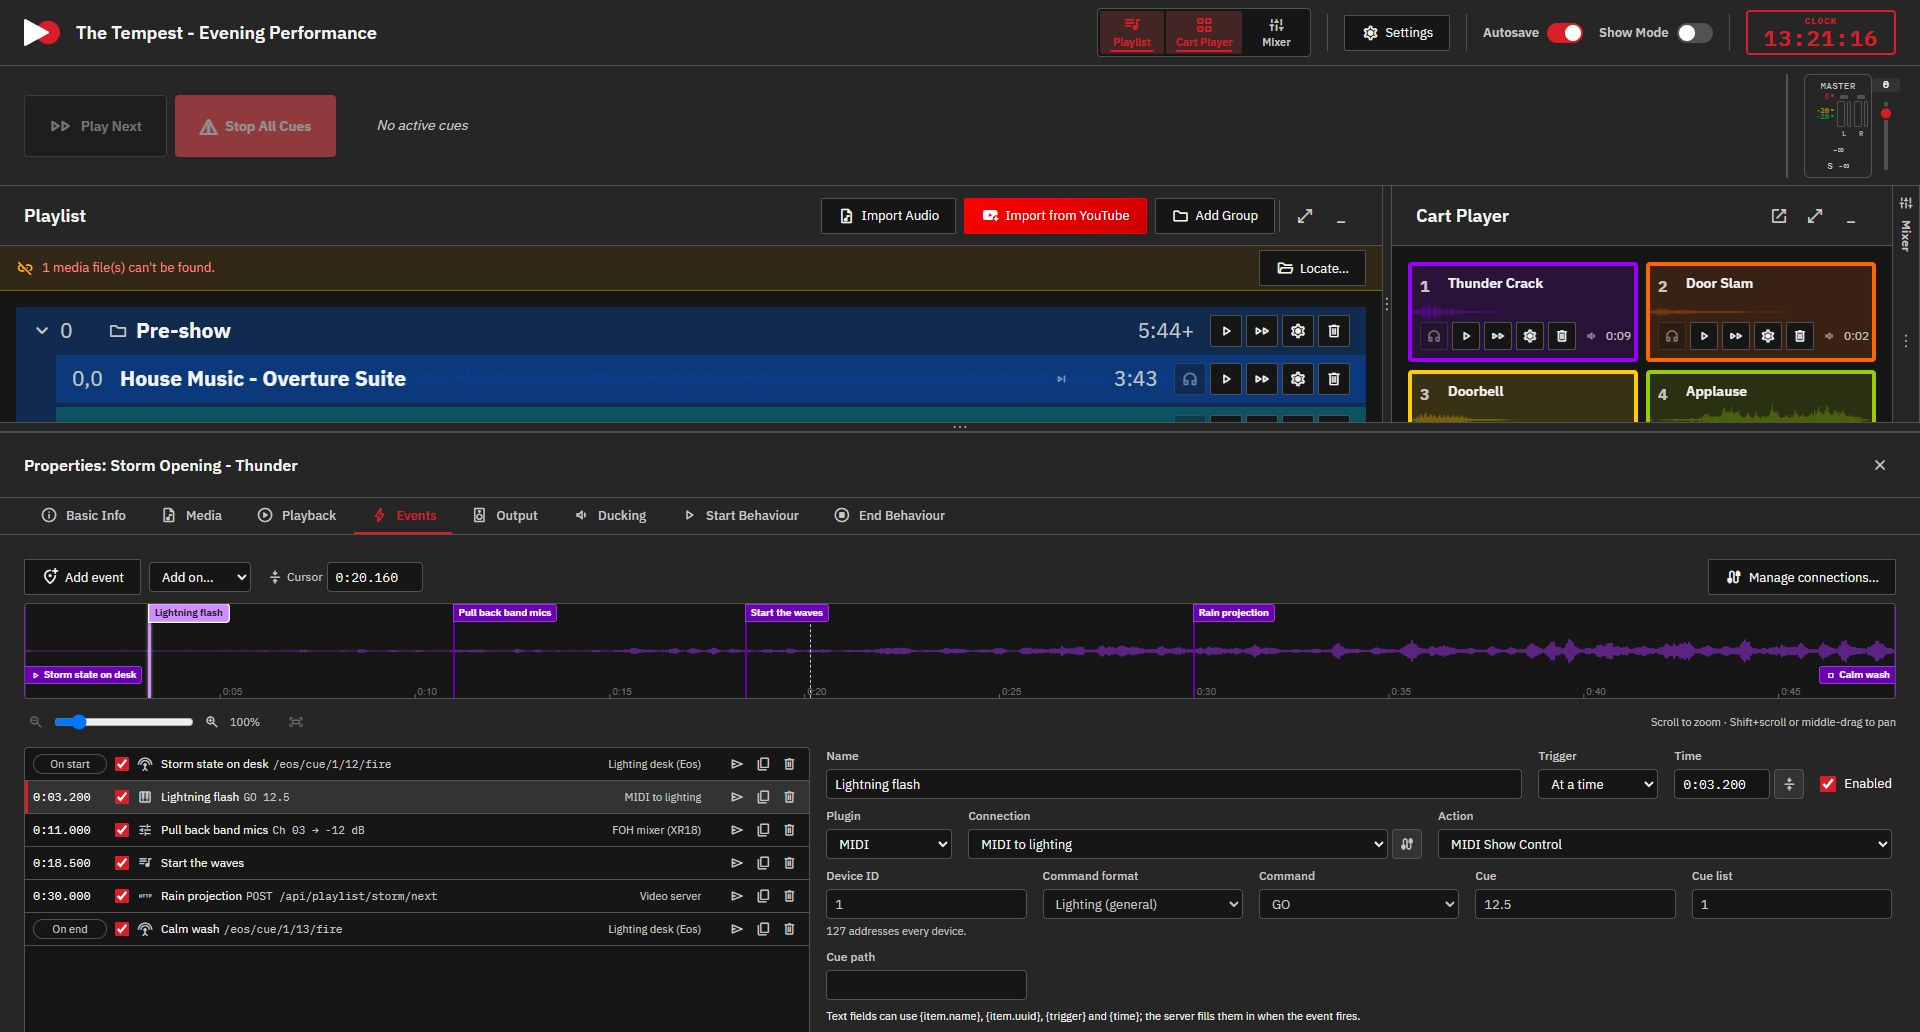
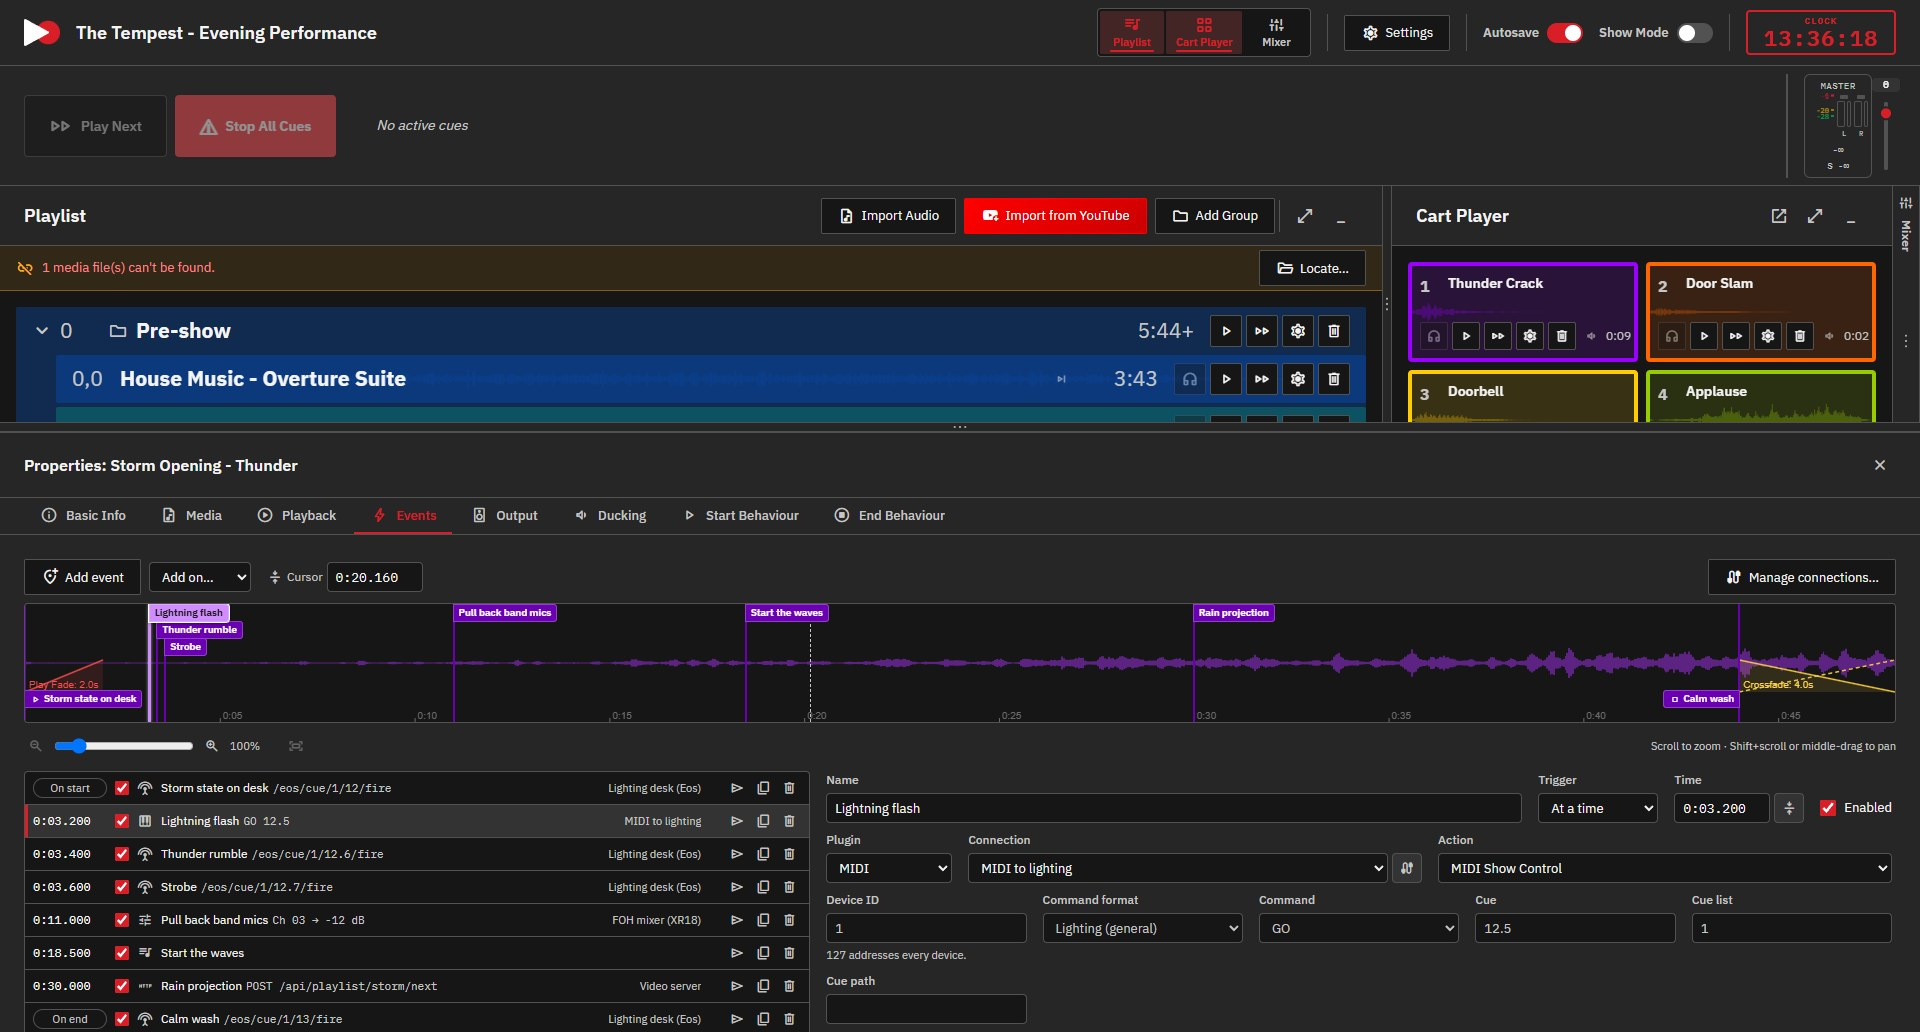
feat(events): lanes for overlapping markers, fades on the timeline
Event flags that would overlap now drop into the next lane (packed by
their measured width at the current zoom, up to three lanes; beyond that
the hovered flag comes to the front), and every marker line sits under
every flag so a neighbour's line never cuts through a label.

The timeline draws the cue's fades in the Playback tab's colours: the
play fade and stop fade as red ramps, a crossfade (and a loop crossfade)
as a yellow X with the next cue's ramp dashed, and Start Next as a green
line. 'On end' flags sit where the server really fires them: at the start
of the crossfade when there is one, not the out point.

Changed region(s): [[0.0, 0.5891, 1.0, 1.0], [0.875, 0.8372, 0.9062, 0.8992], [0.9375, 0.031, 0.9688, 0.062]]

diff --git a/client/app/components/ItemEventsEditor.vue b/client/app/components/ItemEventsEditor.vue
@@ -118,7 +118,7 @@
             flashing: isFlashing(m.ev.id),
             dragging: drag?.id === m.ev.id,
           }"
-          :style="{ left: pct(m.time) }"
+          :style="{ left: pct(m.time), '--lane': m.lane }"
           :title="markerTitle(m.ev)"
           @pointerdown.stop="onMarkerDown($event, m.ev)"
           @pointermove="onMarkerMove"
@@ -127,7 +127,7 @@
         >
           <span class="ev-marker-line" />
           <span class="ev-marker-flag">
-            {{ drag?.id === m.ev.id ? formatEventTime(m.time) : m.label }}
+            {{ m.label }}
             <span v-if="lastResult[m.ev.id]?.ok === false" class="ev-error-dot" />
           </span>
         </div>
@@ -505,15 +505,27 @@ watch(() => props.item?.uuid, () => {
 
 onMounted(() => { void refreshPlugins(); });
 
-// On start / On end events, drawn at the trim points they fire at; several
-// on one edge stack upwards.
+// ---- fades, as the server plays them ------------------------------------
+// Mirrors play_item: a loop arms no crossfade, and Start Next supersedes it.
+const looping = computed(() => props.item.endBehavior?.action === 'loop');
+const startNextOn = computed(() =>
+  !looping.value && !!props.item.startNextEnabled && (props.item.startNextTime ?? 0) > 0);
+const crossFadeSec = computed(() =>
+  looping.value || startNextOn.value ? 0 : Math.max(0, props.item.crossFade || 0));
+// "On end" fires when the cue hands over: at the start of its crossfade, not
+// at the out point (the sequencer retires it there).
+const endFireTime = computed(() =>
+  crossFadeSec.value > 0 ? Math.max(inPoint.value, outPoint.value - crossFadeSec.value) : outPoint.value);
+
+// On start / On end events, drawn where they fire; several on one edge
+// stack upwards.
 const edgeMarkers = computed(() => {
   const out: { ev: ItemEvent; time: number; end: boolean; stack: number; label: string }[] = [];
   let starts = 0, ends = 0;
   for (const ev of sortedEvents.value) {
     if (ev.trigger !== 'start' && ev.trigger !== 'end') continue;
     const end = ev.trigger === 'end';
-    out.push({ ev, end, time: end ? outPoint.value : inPoint.value,
+    out.push({ ev, end, time: end ? endFireTime.value : inPoint.value,
                stack: end ? ends++ : starts++, label: ev.name || rowTitle(ev) });
   }
   return out;
@@ -552,13 +564,44 @@ const waveformColour = computed(() => {
   return rgbCss(mix(c, grey, 0.5));
 });
 
+// Flags that would overlap drop to the next lane down instead of covering
+// each other: packed left to right by their measured width at this zoom.
+// Past MAX_LANES they share the emptiest lane (hovering one lifts it).
+const timelineWidth = ref(0);
+const MAX_LANES = 3;
+let measureCtx: CanvasRenderingContext2D | null = null;
+function flagWidth(label: string, hasError: boolean): number {
+  if (!measureCtx) {
+    measureCtx = document.createElement('canvas').getContext('2d');
+    if (measureCtx) measureCtx.font = `600 10px ${getComputedStyle(document.body).fontFamily}`;
+  }
+  const text = measureCtx ? measureCtx.measureText(label).width : label.length * 6;
+  // Padding and border, the error dot, and the max-width the CSS applies.
+  return Math.min(120, text + 12 + (hasError ? 9 : 0));
+}
+
 // Time markers, numbered in time order so the flag and the list agree.
 const markers = computed(() => {
   const timed = sortedEvents.value.filter(e => e.trigger === 'time' && typeof e.time === 'number');
-  return timed.map((ev, i) => {
+  const list = timed.map((ev, i) => {
     const time = drag.value?.id === ev.id ? drag.value.time : ev.time!;
-    return { ev, time, label: ev.name || String(i + 1), outside: isOutside(time) };
+    const label = drag.value?.id === ev.id ? formatEventTime(time) : (ev.name || String(i + 1));
+    return { ev, time, label, outside: isOutside(time), lane: 0 };
   });
+  const w = timelineWidth.value;
+  if (w > 0 && visibleDuration.value > 0) {
+    const laneEnds: number[] = [];
+    for (const m of [...list].sort((a, b) => a.time - b.time)) {
+      const x = ((m.time - viewStart.value) / visibleDuration.value) * w + 5;   // flag's left edge
+      const right = x + flagWidth(m.label, lastResult.value[m.ev.id]?.ok === false);
+      let lane = laneEnds.findIndex(end => end <= x - 2);
+      if (lane < 0 && laneEnds.length < MAX_LANES) lane = laneEnds.length;
+      if (lane < 0) lane = laneEnds.indexOf(Math.min(...laneEnds));
+      laneEnds[lane] = Math.max(laneEnds[lane] ?? 0, right);
+      m.lane = lane;
+    }
+  }
+  return list;
 });
 
 const rowTitle = (ev: ItemEvent) => {
@@ -900,6 +943,7 @@ function draw() {
   const w = box.clientWidth;
   const h = box.clientHeight;
   if (w <= 0 || h <= 0) return;
+  timelineWidth.value = w;
   const dpr = window.devicePixelRatio || 1;
   canvas.width = Math.round(w * dpr);
   canvas.height = Math.round(h * dpr);
@@ -951,6 +995,67 @@ function draw() {
     if (xo < w) ctx.fillRect(xo, 0, w - xo, h);
   }
 
+  // Fades, in the Playback tab's colours: the play fade and stop fade red,
+  // a crossfade yellow (the next cue's ramp dashed, crossing this one's),
+  // Start Next a green line. Ramps run between the flag rows.
+  if (dur > 0 && vis > 0) {
+    const top = 56, bottom = h - 30;   // between the top flags and the edge flags
+    const RED = '255, 77, 77', YELLOW = '255, 210, 63', GREEN = '74, 222, 128';
+    const ramp = (t0: number, t1: number, up: boolean, rgb: string, label: string, dashedReverse = false) => {
+      const x0 = xOf(t0), x1 = xOf(t1);
+      if (x1 < 0 || x0 > w || x1 - x0 < 1) return;
+      const y0 = up ? bottom : top, y1 = up ? top : bottom;
+      ctx.fillStyle = `rgba(${rgb}, 0.12)`;
+      ctx.beginPath();
+      ctx.moveTo(x0, bottom); ctx.lineTo(x0, y0); ctx.lineTo(x1, y1); ctx.lineTo(x1, bottom);
+      ctx.closePath();
+      ctx.fill();
+      ctx.strokeStyle = `rgba(${rgb}, 0.9)`;
+      ctx.lineWidth = 1.5;
+      ctx.beginPath(); ctx.moveTo(x0, y0); ctx.lineTo(x1, y1); ctx.stroke();
+      if (dashedReverse) {
+        ctx.setLineDash([4, 3]);
+        ctx.beginPath(); ctx.moveTo(x0, y1); ctx.lineTo(x1, y0); ctx.stroke();
+        ctx.setLineDash([]);
+      }
+      ctx.lineWidth = 1;
+      ctx.font = '10px sans-serif';
+      const tw = ctx.measureText(label).width;
+      if (x1 - x0 > tw + 8) {
+        ctx.fillStyle = `rgba(${rgb}, 1)`;
+        ctx.fillText(label, Math.max(x0, 0) + 4, bottom - 4);
+      }
+    };
+    const playFade = Math.max(0, props.item.playFade || 0);
+    const stopFade = Math.max(0, props.item.stopFade || 0);
+    const loopXf = looping.value ? Math.max(0, props.item.loopCrossfade || 0) : 0;
+    if (playFade > 0)
+      ramp(inPoint.value, Math.min(outPoint.value, inPoint.value + playFade), true, RED,
+           t('waveform.playFadeTitle', { seconds: playFade.toFixed(1) }));
+    if (stopFade > 0 && !looping.value)
+      ramp(Math.max(inPoint.value, outPoint.value - stopFade), outPoint.value, false, RED,
+           t('waveform.stopFadeTitle', { seconds: stopFade.toFixed(1) }));
+    if (crossFadeSec.value > 0)
+      ramp(endFireTime.value, outPoint.value, false, YELLOW,
+           t('waveform.crossFadeTitle', { seconds: crossFadeSec.value.toFixed(1) }), true);
+    if (loopXf > 0)
+      ramp(Math.max(inPoint.value, outPoint.value - loopXf), outPoint.value, false, YELLOW,
+           `${t('properties.loopCrossfade')}: ${loopXf.toFixed(1)}s`, true);
+    if (startNextOn.value) {
+      const xs = xOf(props.item.startNextTime!);
+      if (xs >= 0 && xs <= w) {
+        ctx.strokeStyle = `rgba(${GREEN}, 0.9)`;
+        ctx.setLineDash([5, 3]);
+        ctx.beginPath(); ctx.moveTo(xs, 0); ctx.lineTo(xs, h); ctx.stroke();
+        ctx.setLineDash([]);
+        ctx.fillStyle = `rgba(${GREEN}, 1)`;
+        ctx.font = '10px sans-serif';
+        ctx.fillText(t('waveform.startNextTitle', { time: formatEventTime(props.item.startNextTime!) }),
+                     xs + 4, bottom - 4);
+      }
+    }
+  }
+
   // Time ticks along the bottom, at whichever round step lands ~80px apart.
   if (dur > 0 && vis > 0) {
     const steps = [0.01, 0.02, 0.05, 0.1, 0.2, 0.5, 1, 2, 5, 10, 15, 30, 60, 120, 300, 600];
@@ -982,7 +1087,9 @@ const scheduleDraw = () => {
 
 watch(
   () => [props.item.waveform, props.item.color, inPoint.value, outPoint.value, duration.value,
-         zoom.value, viewStart.value],
+         zoom.value, viewStart.value, props.item.playFade, props.item.stopFade, props.item.crossFade,
+         props.item.loopCrossfade, props.item.startNextEnabled, props.item.startNextTime,
+         props.item.endBehavior?.action],
   scheduleDraw,
 );
 
@@ -991,7 +1098,7 @@ watch(selectedId, (id) => {
   const ev = events.value.find(e => e.id === id);
   if (!ev || zoom.value <= 1) return;
   const at = ev.trigger === 'time' ? ev.time
-    : ev.trigger === 'start' ? inPoint.value : ev.trigger === 'end' ? outPoint.value : undefined;
+    : ev.trigger === 'start' ? inPoint.value : ev.trigger === 'end' ? endFireTime.value : undefined;
   if (typeof at === 'number' && !inView(at)) setView(zoom.value, at - visibleDuration.value * 0.25);
 });
 
@@ -1118,7 +1225,7 @@ onBeforeUnmount(() => {
 .ev-timeline {
   position: relative;
   flex: 0 0 auto;
-  height: 96px;
+  height: 120px;
   border: 1px solid var(--color-border);
   border-radius: 4px;
   overflow: hidden;
@@ -1177,13 +1284,15 @@ onBeforeUnmount(() => {
   width: 12px;
   margin-left: -6px;
   cursor: ew-resize;
-  z-index: 1;
+  /* No stacking context of its own: every marker's line then sits under every
+     marker's flag, so a neighbour's line never cuts through a label. */
 
   &.selected {
     --marker-color: var(--marker-light, var(--color-accent));
     --marker-ink: var(--marker-light-ink, #161616);
-    z-index: 2;
   }
+
+  &.selected .ev-marker-flag { z-index: 3; }
 
   &.selected .ev-marker-flag {
     box-shadow: 0 0 0 1px #fff, 0 1px 4px rgba(0, 0, 0, 0.6);
@@ -1195,14 +1304,18 @@ onBeforeUnmount(() => {
     box-shadow: 0 0 3px rgba(255, 255, 255, 0.6);
   }
 
-  &.disabled,
-  &.outside {
+  /* Dimmed on the parts, not the marker: opacity on the marker would give it a
+     stacking context and put its flag back under its neighbours' lines. */
+  &.disabled .ev-marker-line,
+  &.disabled .ev-marker-flag,
+  &.outside .ev-marker-line,
+  &.outside .ev-marker-flag {
     opacity: 0.45;
   }
 
-  &.dragging {
-    z-index: 3;
-  }
+  /* Flags sharing the last lane overlap; the one under the pointer comes up. */
+  &:hover .ev-marker-flag { z-index: 4; }
+  &.dragging .ev-marker-flag { z-index: 5; }
 
   &.flashing .ev-marker-line,
   &.flashing .ev-marker-flag {
@@ -1212,6 +1325,7 @@ onBeforeUnmount(() => {
 
 .ev-marker-line {
   position: absolute;
+  z-index: 1;
   top: 0;
   bottom: 0;
   left: 5px;
@@ -1225,7 +1339,8 @@ onBeforeUnmount(() => {
 
 .ev-marker-flag {
   position: absolute;
-  top: 0;
+  z-index: 2;
+  top: calc(var(--lane, 0) * 17px);
   left: 5px;
   display: flex;
   align-items: center;
